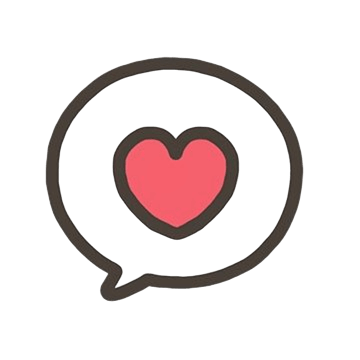
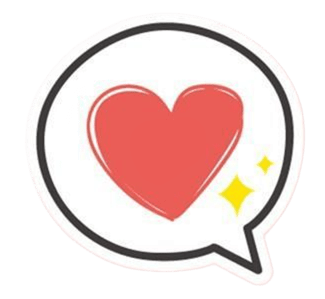
관리자 기능 추가

Changed region(s): [[0.0923, 0.0602, 0.9231, 0.9331]]

diff --git a/admin.js b/admin.js
@@ -1,0 +1,125 @@
+document.addEventListener("DOMContentLoaded", () => {
+  // 아이콘 만들기
+  const icon = document.createElement("div");
+  icon.id = "admin-icon";
+  icon.innerHTML = '<i class="fas fa-user"></i>';
+  icon.style.position = "fixed";
+  icon.style.top = "15px";
+  icon.style.right = "15px";
+  icon.style.cursor = "pointer";
+  icon.style.zIndex = 1000;
+  icon.style.width = "40px";
+  icon.style.height = "40px";
+  icon.style.borderRadius = "50%";
+  icon.style.backgroundColor = "#f0f0f0";
+  icon.style.display = "flex";
+  icon.style.alignItems = "center";
+  icon.style.justifyContent = "center";
+  icon.style.boxShadow = "0 2px 6px rgba(0,0,0,0.15)";
+  icon.title = "관리자 로그인";
+
+  icon.querySelector("i").style.color = "#333";
+  icon.querySelector("i").style.fontSize = "18px";
+
+  document.body.appendChild(icon);
+
+  // 로그인 모달
+  const loginModal = document.createElement("div");
+  loginModal.style.display = "none";
+  loginModal.style.position = "fixed";
+  loginModal.style.top = 0;
+  loginModal.style.left = 0;
+  loginModal.style.width = "100%";
+  loginModal.style.height = "100%";
+  loginModal.style.background = "rgba(0, 0, 0, 0.4)";
+  loginModal.style.zIndex = 999;
+  loginModal.innerHTML = `
+    <div style="position: absolute; top: 50%; left: 50%; transform: translate(-50%, -50%);
+                background: white; padding: 20px; border-radius: 10px; width: 300px;
+                text-align: center; box-shadow: 0 5px 20px rgba(0,0,0,0.2);">
+      <h3>관리자 로그인</h3>
+      <input id="admin-id" placeholder="아이디" style="width: 80%; padding: 6px; margin: 8px 0;" /><br/>
+      <input id="admin-pw" type="password" placeholder="비밀번호" style="width: 80%; padding: 6px; margin-bottom: 10px;" /><br/>
+      <button id="login-btn" style="padding: 6px 12px; margin-right: 10px;">로그인</button>
+      <button id="cancel-btn" style="padding: 6px 12px;">취소</button>
+    </div>
+  `;
+  document.body.appendChild(loginModal);
+
+  // 입력 폼 모달
+  const formModal = document.createElement("div");
+  formModal.style.display = "none";
+  formModal.style.position = "fixed";
+  formModal.style.top = 0;
+  formModal.style.left = 0;
+  formModal.style.width = "100%";
+  formModal.style.height = "100%";
+  formModal.style.background = "rgba(0, 0, 0, 0.4)";
+  formModal.style.zIndex = 999;
+  formModal.innerHTML = `
+    <div style="position: absolute; top: 50%; left: 50%; transform: translate(-50%, -50%);
+                background: white; padding: 20px; border-radius: 10px; width: 340px;
+                text-align: center; box-shadow: 0 5px 20px rgba(0,0,0,0.2);">
+      <h3>추억 추가</h3>
+      <p style="font-size: 12px; margin-bottom: 6px; color: #888;">* 필수 항목입니다</p>
+      <input type="file" id="media-file" accept="image/*,video/*" style="width: 90%; margin: 6px 0;" required /><br/>
+      <input placeholder="제목 (선택)" id="media-title" style="width: 90%; padding: 6px; margin: 6px 0;" /><br/>
+      <textarea placeholder="메모 (선택)" id="media-description" style="width: 90%; height: 60px; padding: 6px; margin: 6px 0;"></textarea><br/>
+      <input placeholder="장소 (선택)" id="media-location" style="width: 90%; padding: 6px; margin: 6px 0;" /><br/>
+      <input type="date" id="media-date" style="width: 90%; padding: 6px; margin: 6px 0;" required /><br/>
+      <input type="number" placeholder="순서 (예: 1)" id="media-order" style="width: 90%; padding: 6px; margin: 6px 0;" required /><br/>
+      <button id="submit-entry" style="padding: 6px 12px; margin-right: 10px;">등록</button>
+      <button id="cancel-entry" style="padding: 6px 12px;">닫기</button>
+    </div>
+  `;
+  document.body.appendChild(formModal);
+
+  icon.addEventListener("click", () => {
+    loginModal.style.display = "block";
+  });
+
+  loginModal.addEventListener("click", (e) => {
+    if (e.target === loginModal) loginModal.style.display = "none";
+  });
+  formModal.addEventListener("click", (e) => {
+    if (e.target === formModal) formModal.style.display = "none";
+  });
+
+  loginModal.querySelector("#login-btn").addEventListener("click", () => {
+    const id = loginModal.querySelector("#admin-id").value.trim();
+    const pw = loginModal.querySelector("#admin-pw").value.trim();
+    if (id === "ceaser501" && pw === "0928") {
+      alert("로그인 성공");
+      loginModal.style.display = "none";
+      formModal.style.display = "block";
+    } else {
+      alert("아이디 또는 비밀번호가 틀렸습니다.");
+    }
+  });
+
+  loginModal.querySelector("#cancel-btn").addEventListener("click", () => {
+    loginModal.style.display = "none";
+  });
+
+  formModal.querySelector("#cancel-entry").addEventListener("click", () => {
+    formModal.style.display = "none";
+  });
+
+  formModal.querySelector("#submit-entry").addEventListener("click", () => {
+    const file = formModal.querySelector("#media-file").files[0];
+    const title = formModal.querySelector("#media-title").value.trim();
+    const description = formModal
+      .querySelector("#media-description")
+      .value.trim();
+    const location = formModal.querySelector("#media-location").value.trim();
+    const date = formModal.querySelector("#media-date").value.trim();
+    const order = parseInt(
+      formModal.querySelector("#media-order").value.trim(),
+      10
+    );
+
+    console.log("입력값:", { file, title, description, location, date, order });
+    alert("입력 완료 (console에 출력됨)");
+    formModal.style.display = "none";
+  });
+});

diff --git a/script.js b/script.js
@@ -114,6 +114,17 @@ function generateRow() {
   }
 
   if (row === 4) {
+    const loveSticker = document.createElement("img");
+    loveSticker.src = "./data/love.png";
+    loveSticker.alt = "heart Sticker";
+    loveSticker.style.position = "absolute";
+    loveSticker.style.top = "1360px";
+    loveSticker.style.left = "calc(21% - 60px)";
+    loveSticker.style.width = "100px";
+    loveSticker.style.transform = "rotate(0deg) translateY(-20px)";
+    loveSticker.style.zIndex = "6";
+    loveSticker.style.pointerEvents = "none";
+
     const dateTape = document.createElement("div");
     dateTape.className = "date-tape";
     dateTape.textContent = "2024.09.28 ~ 2026.04.12";
@@ -129,6 +140,8 @@ function generateRow() {
     dateTape.style.color = "#222";
     dateTape.style.transform = "translateX(180px) rotate(-2deg)";
     dateTape.style.maxWidth = "fit-content";
+
+    wrapper.appendChild(loveSticker);
     wrapper.appendChild(dateTape);
   }
 

diff --git a/index.html b/index.html
@@ -12,10 +12,15 @@
       href="https://cdn.jsdelivr.net/npm/@fancyapps/ui@5.0/dist/fancybox/fancybox.css"
     />
     <link rel="stylesheet" href="style.css" />
+    <link
+      rel="stylesheet"
+      href="https://cdnjs.cloudflare.com/ajax/libs/font-awesome/6.5.0/css/all.min.css"
+    />
   </head>
   <body>
     <div class="garland-wrapper" id="garland-wrapper"></div>
     <script src="https://cdn.jsdelivr.net/npm/@fancyapps/ui@5.0/dist/fancybox/fancybox.umd.js"></script>
     <script src="script.js"></script>
+    <script src="admin.js"></script>
   </body>
 </html>

diff --git a/style.css b/style.css
@@ -276,3 +276,13 @@ body {
   z-index: 10;
   pointer-events: none;
 }
+
+/* admin buttion icon */
+#admin-icon {
+  position: fixed;
+  top: 20px;
+  right: 20px;
+  font-size: 24px;
+  cursor: pointer;
+  z-index: 9999; /* 가장 앞에 보이도록 */
+}
